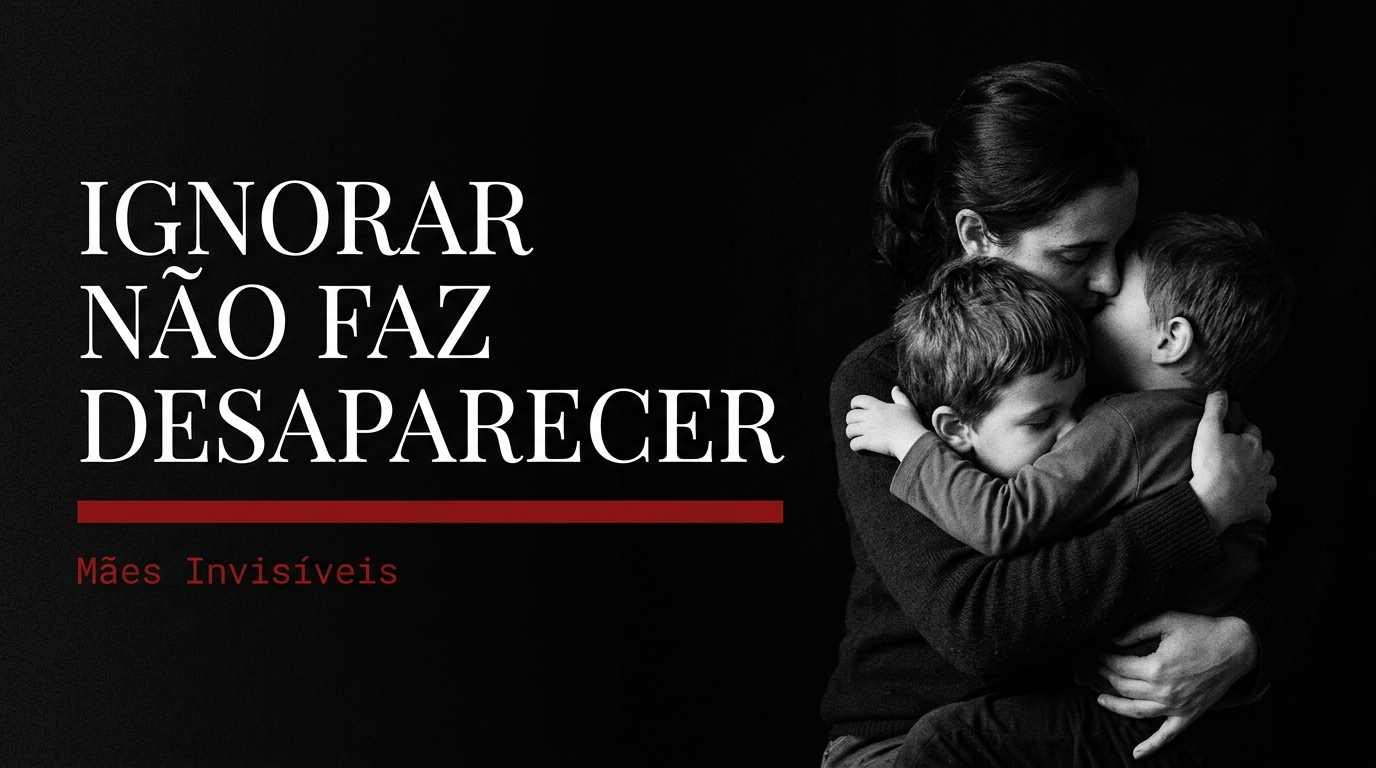
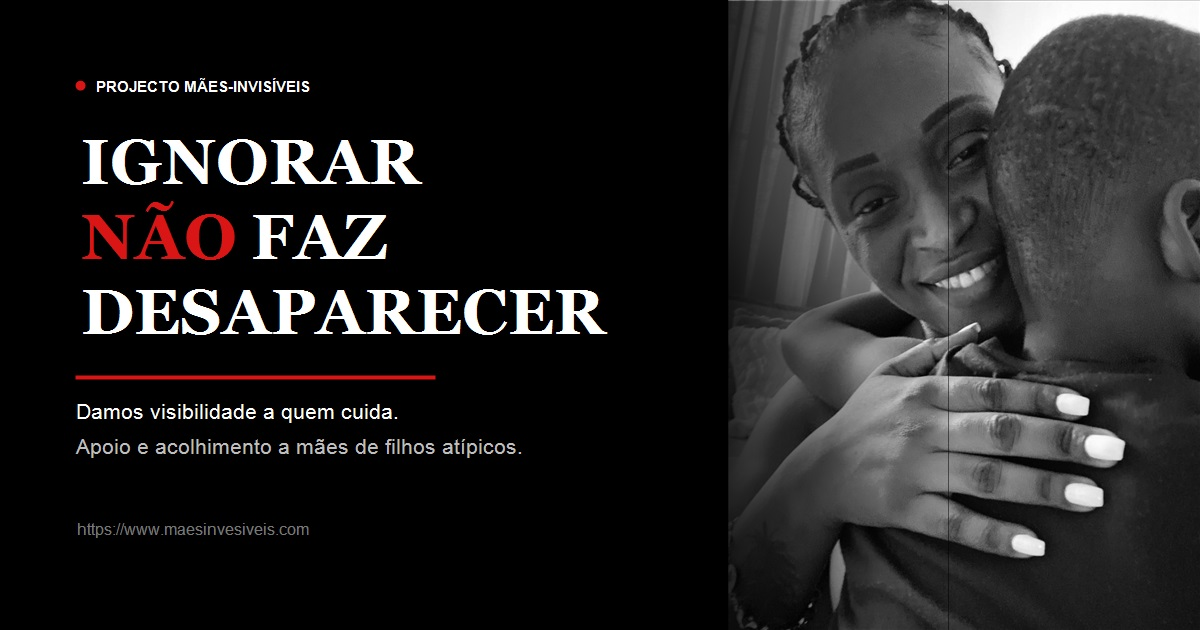
chore: production hardening v1.0

diff --git a/src/app/layout.tsx b/src/app/layout.tsx
@@ -93,6 +93,39 @@ export const metadata: Metadata = {
   },
 };
 
+const structuredData = {
+  "@context": "https://schema.org",
+  "@graph": [
+    {
+      "@type": "Organization",
+      "@id": "https://www.maesinvesiveis.com/#organization",
+      "name": "Projecto Mães-Invisíveis",
+      "alternateName": "Mães Invisíveis",
+      "url": "https://www.maesinvesiveis.com/",
+      "logo": "https://www.maesinvesiveis.com/brand/logo.svg",
+      "slogan": "IGNORAR NÃO FAZ DESAPARECER",
+      "description":
+        "Damos visibilidade a quem cuida: mães que enfrentam o medo, a culpa e a luta pela aceitação após o diagnóstico dos filhos.",
+      "founder": {
+        "@type": "Person",
+        "name": "Adalgiza Baptista",
+        "jobTitle": "CEO do Projecto Mães-Invisíveis",
+      },
+      "sameAs": ["https://www.instagram.com/_maes.invisiveis_/"],
+    },
+    {
+      "@type": "WebSite",
+      "@id": "https://www.maesinvesiveis.com/#website",
+      "url": "https://www.maesinvesiveis.com/",
+      "name": "Mães Invisíveis",
+      "publisher": {
+        "@id": "https://www.maesinvesiveis.com/#organization",
+      },
+      "inLanguage": "pt-PT",
+    },
+  ],
+};
+
 export default function RootLayout({
   children,
 }: Readonly<{
@@ -104,6 +137,12 @@ export default function RootLayout({
       className={`${playfair.variable} ${inter.variable} ${jetbrainsMono.variable}`}
     >
       <body className="bg-primary-black text-primary-white antialiased flex flex-col min-h-screen">
+        {/* Schema.org JSON-LD Structured Data */}
+        <script
+          type="application/ld+json"
+          dangerouslySetInnerHTML={{ __html: JSON.stringify(structuredData) }}
+        />
+
         {/* Accessibility Skip Link */}
         <SkipToContent />
 

diff --git a/src/components/editorial/HeroVideo.tsx b/src/components/editorial/HeroVideo.tsx
@@ -168,7 +168,7 @@ export function HeroVideo({
                   playsInline
                   muted={isMuted}
                   loop
-                  preload="auto"
+                  preload="metadata"
                   onPlay={() => setIsPlaying(true)}
                   onPause={() => setIsPlaying(false)}
                   aria-label="Apresentação audiovisual oficial do Projecto Mães-Invisíveis com Adalgiza Baptista e o filho"
@@ -251,7 +251,7 @@ export function HeroVideo({
             playsInline
             muted={isMuted}
             loop
-            preload="auto"
+            preload="metadata"
             onPlay={() => setIsPlaying(true)}
             onPause={() => setIsPlaying(false)}
             aria-label="Apresentação audiovisual oficial do Projecto Mães-Invisíveis com Adalgiza Baptista"

diff --git a/README.md b/README.md
@@ -1,34 +1,182 @@
-This is a [Next.js](https://nextjs.org) project bootstrapped with [`create-next-app`](https://nextjs.org/docs/app/api-reference/cli/create-next-app).
+# Mães Invisíveis
 
-## Getting Started
+Plataforma oficial e CMS administrativo do **Projecto Mães-Invisíveis**, dedicado a dar visibilidade, acolhimento e dignidade às mães de crianças atípicas (autismo, TDAH, síndromes, doenças raras e outras neurodivergências).
 
-First, run the development server:
+Domínio Oficial: [https://www.maesinvesiveis.com/](https://www.maesinvesiveis.com/)  
+Liderança: **Adalgiza Baptista** (CEO e Fundadora)  
+Slogan: *"IGNORAR NÃO FAZ DESAPARECER"*
 
-```bash
-npm run dev
-# or
-yarn dev
-# or
-pnpm dev
-# or
-bun dev
+---
+
+## 1. Visão Geral
+
+O projeto é composto por:
+1. **Website Institucional Público:** Apresentação da missão, manifesto editorial, registos e histórias documentais, área de apoio cívico e formulário de contacto protegido.
+2. **CMS Administrativo (`/admin`):** Painel restrito para gestão de conteúdos (criação, edição, publicação e despublicação de histórias), consulta de mensagens recebidas, edição de informações institucionais, gestão de ficheiros de media e métricas diárias de visitas ao website.
+
+---
+
+## 2. Stack Tecnológica
+
+* **Framework:** [Next.js](https://nextjs.org/) (App Router, Turbopack)
+* **Biblioteca UI:** [React](https://react.dev/)
+* **Linguagem:** [TypeScript](https://www.typescriptlang.org/)
+* **Estilização:** [Tailwind CSS](https://tailwindcss.com/)
+* **Base de Dados & Backend:** [Supabase](https://supabase.com/)
+* **Autenticação:** Supabase Auth (sessão gerida com cookies HTTP seguros via `@supabase/ssr`)
+* **Base de Dados:** PostgreSQL com Row Level Security (RLS) e funções `SECURITY DEFINER`
+* **Armazenamento:** Supabase Storage (bucket `media` protegido)
+* **Hospedagem & CDN:** [Vercel](https://vercel.com/) com SSL automatizado e CDN Edge global
+
+---
+
+## 3. Estrutura do Projeto
+
+```text
+web/
+├── public/
+│   ├── brand/              # Logótipos oficiais vetorizados e favicons
+│   ├── media/              # Fotografias documentais e vídeo oficial otimizado
+│   └── og-image.jpg        # Imagem oficial para redes sociais (1200x630)
+├── src/
+│   ├── app/                # Rotas do Next.js App Router (públicas e /admin)
+│   │   ├── admin/          # Rotas protegidas do CMS administrativo
+│   │   ├── api/            # Endpoints seguros (contacto, auth, analytics)
+│   │   ├── sitemap.ts      # Geração dinâmica do sitemap.xml
+│   │   └── robots.ts       # Regras de indexação do robots.txt
+│   ├── components/
+│   │   ├── admin/          # Componentes do painel CMS (AdminShell, tabelas)
+│   │   ├── analytics/      # Componente cliente de registo de visualizações
+│   │   ├── editorial/      # Componentes do Hero audiovisual, manifesto e histórias
+│   │   ├── layout/         # Navbar, Footer, navegação móvel e acessibilidade
+│   │   └── ui/             # Componentes de base (Button, Card, Container)
+│   ├── lib/
+│   │   ├── content.ts      # Dados institucionais estáticos e histórias de desenvolvimento
+│   │   ├── data/           # Métodos de consulta de dados com fallback resiliente
+│   │   └── supabase/       # Clientes Supabase (browser, server, public, middleware)
+│   └── types/              # Definições TypeScript para conteúdos e esquema Supabase
+└── supabase/
+    └── schema.sql          # Esquema DDL completo, políticas RLS e triggers
 ```
 
-Open [http://localhost:3000](http://localhost:3000) with your browser to see the result.
+---
 
-You can start editing the page by modifying `app/page.tsx`. The page auto-updates as you edit the file.
+## 4. Execução Local
 
-## Learn More
+### Pré-requisitos
+* Node.js 18+ (recomendado Node.js 20 LTS)
+* npm, yarn ou pnpm
 
-To learn more about Next.js, take a look at the following resources:
+### Instalação e Desenvolvimento
+```bash
+# 1. Instalar dependências
+npm install
 
-- [Next.js Documentation](https://nextjs.org/docs) - learn about Next.js features and API.
-- [Learn Next.js](https://nextjs.org/learn) - an interactive Next.js tutorial.
+# 2. Iniciar servidor de desenvolvimento local
+npm run dev
+```
+O projeto estará acessível em `http://localhost:3000`.
 
-You can check out [the Next.js GitHub repository](https://github.com/vercel/next.js) - your feedback and contributions are welcome!
+### Compilação de Produção
+```bash
+# 3. Compilar projeto para produção (TypeScript + SSG)
+npm run build
 
-## Deploy on Vercel
+# 4. Executar servidor de produção local
+npm run start
+```
 
-The easiest way to deploy your Next.js app is to use the [Vercel Platform](https://vercel.com/new?utm_medium=default-template&filter=next.js&utm_source=create-next-app&utm_campaign=create-next-app-readme) from the creators of Next.js.
+---
 
-Check out our [Next.js deployment documentation](https://nextjs.org/docs/app/building-your-application/deploying) for more details.
+## 5. Variáveis de Ambiente
+
+Crie um ficheiro `.env.local` na raiz de `web/` com base no [.env.example](file:///c:/Users/us/Desktop/Projecto-maes-invisiveis/web/.env.example):
+
+```env
+# URL da instância Supabase
+NEXT_PUBLIC_SUPABASE_URL=https://your-project-id.supabase.co
+
+# Chave pública anónima (segura no browser sob políticas RLS)
+NEXT_PUBLIC_SUPABASE_ANON_KEY=eyJhbGciOiJIUzI1NiIsInR5cCI6IkpXVCJ9...
+
+# Domínio oficial canónico
+NEXT_PUBLIC_SITE_URL=https://www.maesinvesiveis.com
+
+# URL opcional para CDN externa do vídeo (por omissão utiliza /media/hero-video.mp4)
+NEXT_PUBLIC_HERO_VIDEO_URL=/media/hero-video.mp4
+```
+
+> **IMPORTANTE DE SEGURANÇA:**
+> - O ficheiro `.env.local` **NUNCA** deve ser commitado no repositório Git (já incluído no `.gitignore`).
+> - A chave `SUPABASE_SERVICE_ROLE_KEY` **NÃO É UTILIZADA** no frontend e **NUNCA** deve ser adicionada ao código ou às variáveis do cliente.
+> - Todas as operações administrativas são controladas através de autenticação de sessão e Row Level Security (RLS).
+
+---
+
+## 6. Arquitetura Supabase
+
+O ficheiro [supabase/schema.sql](file:///c:/Users/us/Desktop/Projecto-maes-invisiveis/web/supabase/schema.sql) define a estrutura do banco:
+
+* **`auth.users`:** Tabela nativa de utilizadores autenticados do Supabase.
+* **`admin_users`:** Registo de utilizadores com perfil de administrador autorizado (`role = 'admin'`), associada por chave estrangeira a `auth.users(id)`.
+* **`public.is_admin()`:** Função segura com `SECURITY DEFINER` e `SET search_path = public` que verifica se `auth.uid()` pertence a `admin_users`.
+* **`stories`:** Histórias e registos editoriais (`status IN ('draft', 'published')`).
+* **`site_settings`:** Definições institucionais oficiais em formato JSONB (`key = 'institutional'`).
+* **`contact_messages`:** Mensagens submetidas através do formulário de contacto.
+* **`page_views`:** Métricas diárias anónimas de tráfego de páginas.
+* **`media`:** Metadados dos ficheiros guardados no Supabase Storage.
+* **RLS (Row Level Security):** Ativado em **todas** as tabelas. Utilizadores comuns e anónimos não têm permissão de escrita em nenhuma tabela.
+
+---
+
+## 7. CMS Administrativo
+
+Aceda a `/admin/login` para entrar no painel.
+
+* **Dashboard (`/admin/dashboard`):** Visão geral de métricas, gráfico dos últimos 14 dias de visitas, ranking de páginas mais consultadas, histórias recentes e mensagens não lidas.
+* **Histórias (`/admin/historias`):**
+  * Criação de novas histórias (`/admin/historias/nova`) com upload direto de fotografia para o Supabase Storage.
+  * Modo **Rascunho (`draft`)**: Fica visível apenas para administradores dentro do CMS.
+  * Modo **Publicado (`published`)**: Disponível publicamente no site e integrado no sitemap.
+  * Edição e despublicação imediata (`/admin/historias/[id]`).
+  * Proteção contra identificadores duplicados (`slug UNIQUE`).
+* **Contactos (`/admin/contactos`):** Consulta das mensagens enviadas pelos visitantes, com marcação de estado (*não lida*, *lida*, *arquivada*).
+* **Configurações (`/admin/configuracoes`):** Edição dos textos institucionais oficiais (missão, valores, slogan, hiperligações comunitárias).
+* **Terminar Sessão:** Encerramento seguro de sessão no cliente e servidor.
+
+---
+
+## 8. Segurança e Privacidade
+
+1. **Autenticação Server-Side:** Validação criptográfica de sessão no servidor através de `auth.getUser()` no middleware do Next.js.
+2. **Autorização Rígida (Login ≠ Admin):** Utilizadores autenticados comuns não possuem acesso ao CMS. O middleware e as regras de RLS barram qualquer utilizador que não esteja registado na tabela `admin_users`.
+3. **Proteção Total do Banco de Dados:** A segurança é garantida no PostgreSQL através de Row Level Security (RLS). Mesmo com pedidos manuais à API Supabase, operações não autorizadas são rejeitadas.
+4. **Proteção de Contactos:** Visitantes apenas podem efetuar `INSERT` com validações rigorosas e proteção anti-spam honeypot (`hp_website`). O acesso de leitura (`SELECT`) é restrito exclusivamente a administradores.
+5. **Políticas de Storage:** O bucket público `media` permite leitura das imagens pelo navegador, mas qualquer operação de `INSERT`, `UPDATE` ou `DELETE` requer verificação afirmativa da função `public.is_admin()`.
+
+---
+
+## 9. SEO & Metadados Técnicos
+
+* **Domínio Canónico Oficial:** Todas as rotas públicas configuram expressamente `alternates: { canonical: "https://www.maesinvesiveis.com/..." }`.
+* **Sitemap Dinâmico:** Gerado em `/sitemap.xml`, incluindo automaticamente novas histórias assim que o status for alterado para `published`.
+* **Robots.txt:** Configurado em `/robots.txt` para proibir a indexação de `/admin/` e `/api/`.
+* **Open Graph & Twitter:** Configurados com imagem documental oficial (`/og-image.jpg`, 1200x630 px) e textos alinhados com a missão.
+* **Schema.org (JSON-LD):** Metadados estruturados de `Organization` e `WebSite` injetados no cabeçalho global com dados confirmados da fundadora e do projeto.
+
+---
+
+## 10. Implementação & Deploy
+
+* **Repositório GitHub:** `Ageu234/maes-invisiveis` (branch `main`).
+* **Plataforma de Produção:** Vercel com build automatizado em cada push para `main`.
+* **Domínio:** `https://www.maesinvesiveis.com/` (com redirecionamento automático do domínio apex `maesinvesiveis.com` configurado na Vercel).
+* **Comando de Compilação:** `next build`.
+
+---
+
+## 11. Governança Editorial
+
+* Todos os relatos, depoimentos e conteúdos a disponibilizar ao público devem ser previamente validados pela fundadora e CEO **Adalgiza Baptista**.
+* Histórias em fase de redação ou revisão devem ser mantidas no status **Rascunho (`draft`)**.
+* Não devem ser incluídas datas factuais, moradas, contactos telefónicos, estatísticas ou credenciais não comprovadas formalmente pela liderança do projeto.
